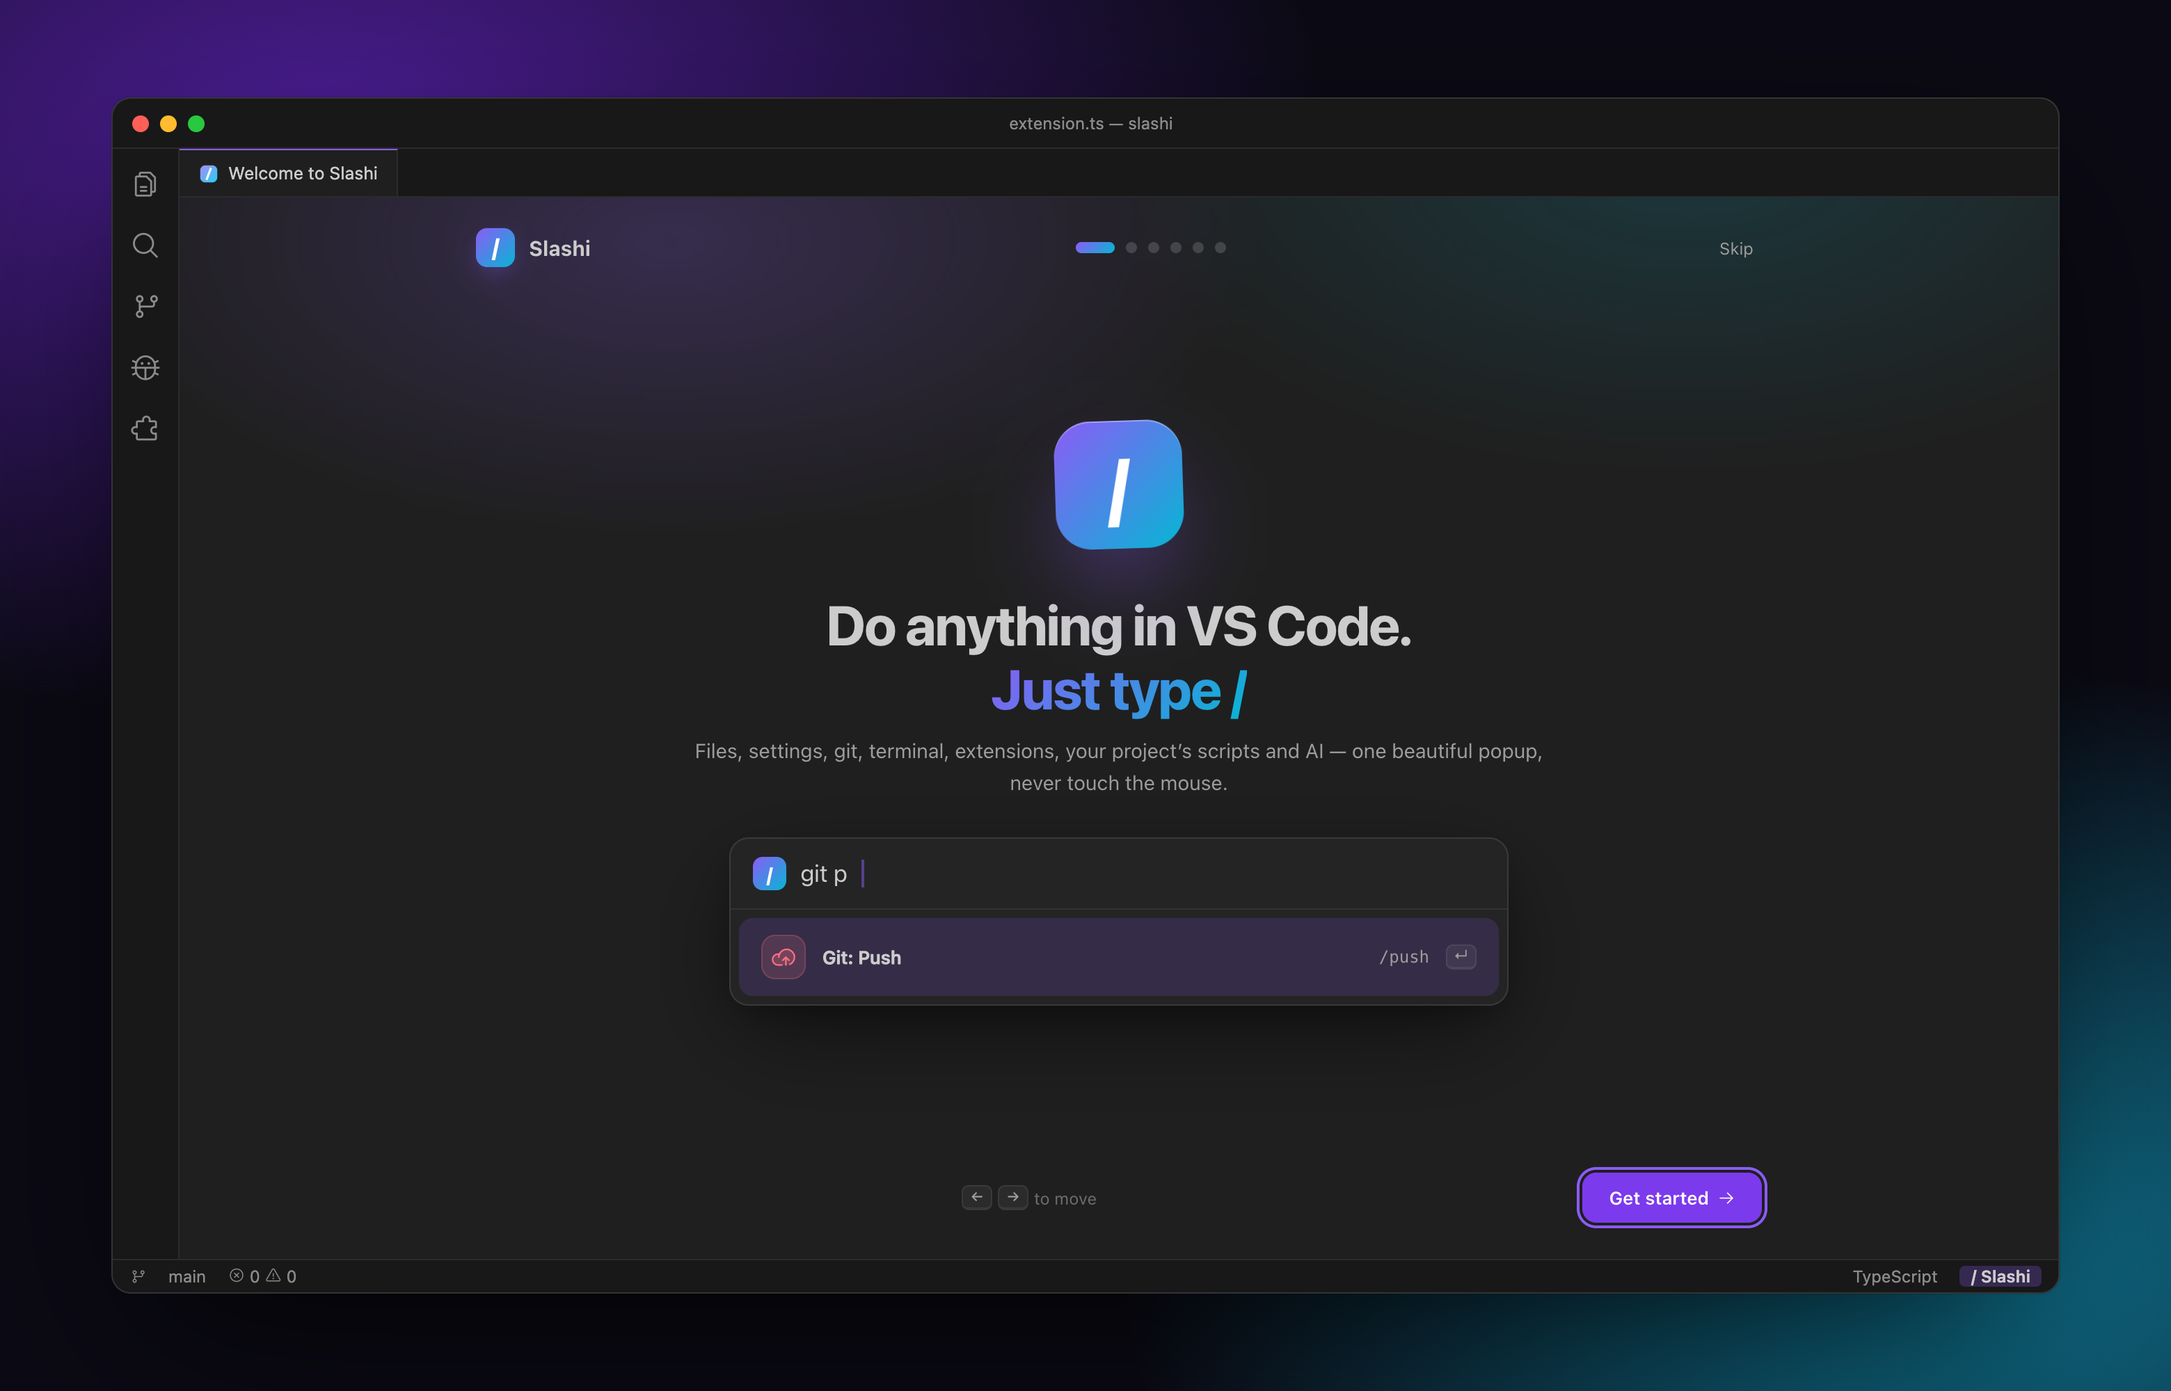
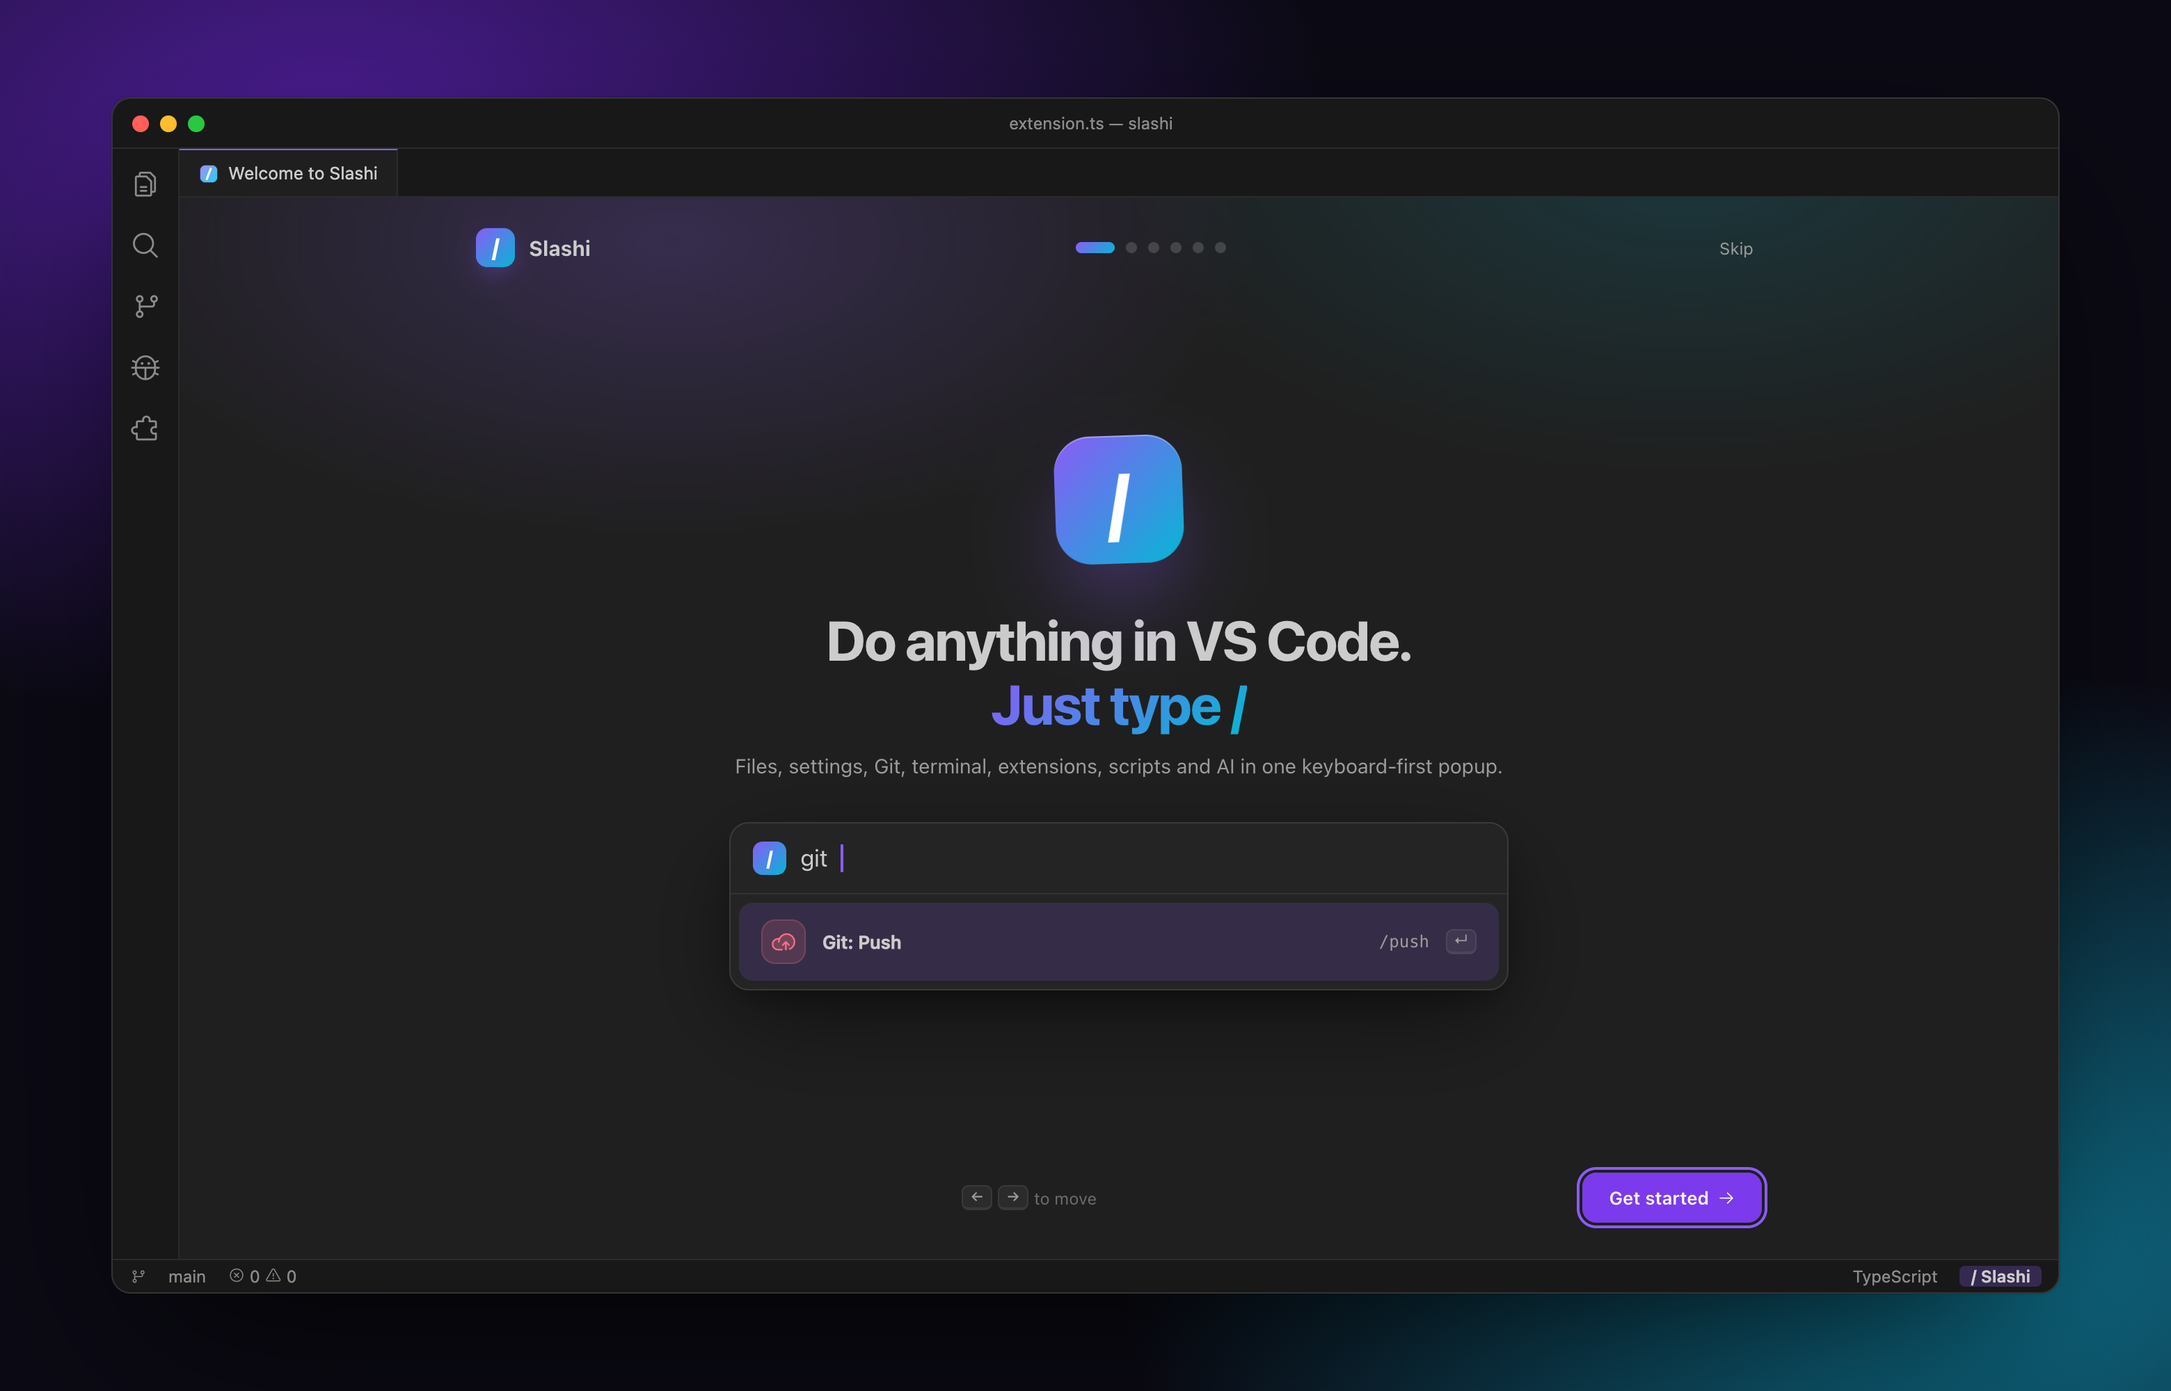
fix(ui): make user-facing copy clearer and consistent
- One API key prompt everywhere, titled with the backend's real name.
- Explain what applying a stale AI edit may overwrite, and show this
  platform's undo key.
- Plural problem counts, a working link to the pack publishing guide and
  plain undo steps for hidden results.
- "AI" instead of "LLM", "Refresh Search Results" instead of "Refresh
  Catalogues", American spelling, and plainer onboarding copy.

diff --git a/src/webview/onboarding.ts b/src/webview/onboarding.ts
@@ -67,7 +67,7 @@ function content(): string {
       return `<div class="hero">
           <div class="hero-mark" aria-hidden="true">/</div>
           <h1>Do anything in VS Code.<br><span class="grad">Just type /</span></h1>
-          <p class="lead">Files, settings, git, terminal, extensions, your project’s scripts and AI — one beautiful popup, never touch the mouse.</p>
+          <p class="lead">Files, settings, Git, terminal, extensions, scripts and AI in one keyboard-first popup.</p>
         </div>
         <div class="demo" aria-hidden="true">
           <div class="demo-input"><span class="demo-mark">/</span><span id="demo-text"></span><span class="caret"></span></div>
@@ -75,7 +75,7 @@ function content(): string {
         </div>`;
     case 'shortcut':
       return `<div class="center">
-          <h1>Your new favourite shortcut</h1>
+          <h1>Your new favorite shortcut</h1>
           <p class="lead">Press it anywhere in VS Code to open Slashi. Try it now.</p>
           <div class="keycaps${pressed ? ' pressed' : ''}">${slashKeys().map((k) => `<span class="cap">${k}</span>`).join('<span class="plus">+</span>')}</div>
           <p class="pressed-msg${pressed ? ' visible' : ''}">${icon('check-circle')} Perfect — that’s all you need to remember.</p>
@@ -87,7 +87,7 @@ function content(): string {
         </div>`;
     case 'providers':
       return `<div class="center wide">
-          <h1>Choose your superpowers</h1>
+          <h1>Choose what Slashi can do</h1>
           <p class="lead">Everything is on by default. Turn off what you don’t need — fine-tune features later in Studio.</p>
           <div class="providers">${s.providers
             .map(
@@ -115,13 +115,13 @@ function content(): string {
     case 'done':
       return `<div class="center wide">
           <h1>You’re all set ${icon('confetti')}</h1>
-          <p class="lead">A few moves that make Slashi fly:</p>
+          <p class="lead">Shortcuts worth knowing:</p>
           <div class="tips">
             ${tip(keys(...slashKeys()), 'Open Slashi from anywhere')}
             ${tip(keys('Tab'), 'Complete a command, then type its arguments')}
             ${tip(`${keys('⇧', '↵')}`, 'Actions: rename, delete, copy path, hide…')}
             ${tip(keys(mac() ? '⌘' : 'Ctrl', '↵'), 'Hand what you typed to AI')}
-            ${tip('<code>/f</code>', 'Files & folders with full CRUD')}
+            ${tip('<code>/f</code>', 'Create, rename, move and delete files')}
             ${tip('<code>/p</code>', 'Your project’s scripts & tools')}
             ${tip('<code>/do</code>', 'Describe a task in plain English')}
             ${tip('<code>/market</code>', 'Install community action packs')}

diff --git a/src/providers/custom.ts b/src/providers/custom.ts
@@ -1,5 +1,6 @@
 import * as vscode from 'vscode';
 import { get, isFeatureEnabled, updateGlobal } from '../config';
+import { HELP_LINKS } from '../data/links';
 import { NAME_PATTERN, PACK_ID_PATTERN, validateCommands, type CustomCommandDef, type PackDef, type StepDef } from '../core/commandSchema';
 import { pickIcon } from '../core/icons';
 import { parseJsonc } from '../core/text';
@@ -146,7 +147,7 @@ export class CustomProvider implements SlashProvider {
     errors.forEach((e) => this.services.log.warn(e));
     if (this.warned.has(key)) return;
     this.warned.add(key);
-    void vscode.window.showWarningMessage(`Slashi: ${errors.length} problem(s) in your custom commands. ${errors[0]}`, 'Show Log').then((c) => c && this.services.log.show());
+    void vscode.window.showWarningMessage(`Slashi: ${errors.length === 1 ? '1 problem' : `${errors.length} problems`} in your custom commands. ${errors[0]}`, 'Show Log').then((c) => c && this.services.log.show());
   }
 
   private builtins(): SlashItem[] {
@@ -340,7 +341,7 @@ export async function editTeamCommands(): Promise<void> {
 export async function exportPack(): Promise<void> {
   const { commands } = validateCommands(get('customCommands', []));
   if (!commands.length) {
-    const choice = await vscode.window.showInformationMessage('You have no custom commands yet.', 'Create One');
+    const choice = await vscode.window.showInformationMessage('No custom commands to export yet.', 'Create Command');
     if (choice) await vscode.commands.executeCommand('slashi.newCommand');
     return;
   }
@@ -363,5 +364,7 @@ export async function exportPack(): Promise<void> {
   };
   const doc = await vscode.workspace.openTextDocument({ language: 'json', content: `${JSON.stringify(pack, null, 2)}\n` });
   await vscode.window.showTextDocument(doc);
-  void vscode.window.showInformationMessage(`Save it as ${id}.slashi-pack.json. Share the file, install it with “Slashi: Install Action Pack”, or publish it to the marketplace (see docs/BUILDING_ACTIONS.md).`);
+  void vscode.window
+    .showInformationMessage(`Save this as ${id}.slashi-pack.json. Share the file, or install it with “Slashi: Install Action Pack from URL or File…”.`, 'Publishing Guide')
+    .then((choice) => choice && vscode.env.openExternal(vscode.Uri.parse(HELP_LINKS.packs)));
 }

diff --git a/src/ui/answer.ts b/src/ui/answer.ts
@@ -146,7 +146,7 @@ export class AnswerPanel implements vscode.Disposable {
     if (!this.target) return this.insertAtCursor(text);
     const doc = await vscode.workspace.openTextDocument(this.target.uri);
     if (doc.version !== this.target.version) {
-      const choice = await vscode.window.showWarningMessage('The file changed since the AI started. Apply anyway?', { modal: true }, 'Apply');
+      const choice = await vscode.window.showWarningMessage('This file changed after the AI started writing. Apply the change anyway?', { modal: true, detail: 'Edits you made since then may be overwritten.' }, 'Apply Anyway');
       if (!choice) return;
     }
     const edit = new vscode.WorkspaceEdit();
@@ -157,7 +157,7 @@ export class AnswerPanel implements vscode.Disposable {
     editor.selection = new vscode.Selection(this.target.range.start, end);
     editor.revealRange(editor.selection, vscode.TextEditorRevealType.InCenterIfOutsideViewport);
     this.target = { uri: doc.uri, range: new vscode.Range(this.target.range.start, end), version: doc.version };
-    void vscode.window.setStatusBarMessage('$(check) Applied — undo with Ctrl/Cmd+Z', 4000);
+    void vscode.window.setStatusBarMessage(`$(check) Applied. Press ${process.platform === 'darwin' ? '⌘Z' : 'Ctrl+Z'} to undo.`, 4000);
   }
 
   private async insertAtCursor(text: string): Promise<void> {

diff --git a/src/providers/naturalLanguage.ts b/src/providers/naturalLanguage.ts
@@ -19,7 +19,7 @@ const OS_NAMES: Record<string, string> = { darwin: 'macOS', win32: 'Windows', li
 export class NaturalLanguageProvider implements SlashProvider {
   readonly id = 'naturalLanguage' as const;
   readonly title = 'Natural Language';
-  readonly description = 'Describe a task in plain English; the LLM picks the right actions and asks before running them.';
+  readonly description = 'Describe a task in plain English, and AI picks the right actions and asks before running them.';
   readonly icon = 'magic-wand';
   readonly prefix = 'do';
   readonly placeholder = 'Describe what you want to do…';
@@ -104,8 +104,8 @@ export async function doWithAi(services: Services, task: string, snapshot: Edito
   const reachesShell = plan.steps.some((s) => stepReachesShell(s, (id) => byId.get(id)?.providerId));
   if (get('ai.confirmBeforeRun', true) || reachesShell) {
     const detail = plan.steps.map((s, i) => `${i + 1}. ${describe(s)}${s.why ? `  (${s.why})` : ''}`).join('\n');
-    const choice = await vscode.window.showInformationMessage(plan.reply || 'Run this plan?', { modal: true, detail }, 'Run');
-    if (choice !== 'Run') return;
+    const choice = await vscode.window.showInformationMessage(plan.reply || 'Run this plan?', { modal: true, detail }, 'Run Plan');
+    if (choice !== 'Run Plan') return;
   }
 
   for (const step of plan.steps) {

diff --git a/src/extension.ts b/src/extension.ts
@@ -140,7 +140,7 @@ export function activate(context: vscode.ExtensionContext): SlashiApi {
       { title: 'Which provider is the key for?' },
     );
     if (!backend) return;
-    const key = await vscode.window.showInputBox({ title: `${backend.label} API key`, password: true, ignoreFocusOut: true, prompt: 'Stored in VS Code Secret Storage, never in settings files.' });
+    const key = await vscode.window.showInputBox({ title: `${backend.label} API key`, password: true, ignoreFocusOut: true, prompt: 'Stored in VS Code Secret Storage, never in your settings files.' });
     if (!key) return;
     await services.ai.setKey(backend.value, key);
     if (get('ai.provider', 'auto') === 'auto' && backend.value !== 'openaiCompatible') await updateGlobal('ai.provider', backend.value);
@@ -174,7 +174,7 @@ export function activate(context: vscode.ExtensionContext): SlashiApi {
     registry.invalidate();
     await marketplace.refresh(true);
     await registry.warm();
-    void vscode.window.setStatusBarMessage('$(check) Slashi catalogues refreshed', 2500);
+    void vscode.window.setStatusBarMessage('$(check) Slashi search results refreshed', 2500);
   });
   command('slashi.inlineRun', async (id: string) => {
     const item = registry.find(id);

diff --git a/src/ui/onboarding.ts b/src/ui/onboarding.ts
@@ -1,7 +1,7 @@
 import * as vscode from 'vscode';
 import { get, isProviderEnabled, shortcutLabel, updateGlobal } from '../config';
 import type { ProviderId } from '../core/protocol';
-import type { BackendId, ModelInfo } from '../llm/types';
+import { BACKEND_LABELS, type BackendId, type ModelInfo } from '../llm/types';
 import type { Services } from '../services/services';
 import { panelIcon, webviewHtml, webviewOptions } from './html';
 
@@ -88,7 +88,7 @@ export class Onboarding implements vscode.Disposable {
         await this.pushState();
         break;
       case 'setKey': {
-        const key = await vscode.window.showInputBox({ title: `${m.backend === 'anthropic' ? 'Anthropic' : 'OpenAI'} API key`, password: true, ignoreFocusOut: true, prompt: 'Stored in VS Code Secret Storage — never in settings files.' });
+        const key = await vscode.window.showInputBox({ title: `${BACKEND_LABELS[m.backend]} API key`, password: true, ignoreFocusOut: true, prompt: 'Stored in VS Code Secret Storage, never in your settings files.' });
         if (key) {
           await services.ai.setKey(m.backend, key);
           await updateGlobal('ai.provider', m.backend);

diff --git a/src/ui/studio.ts b/src/ui/studio.ts
@@ -2,7 +2,7 @@ import * as vscode from 'vscode';
 import { get, isFeatureEnabled, isProviderEnabled, setFeatureEnabled, updateGlobal } from '../config';
 import type { ProviderId } from '../core/protocol';
 import { HELP_LINKS, type HelpLink } from '../data/links';
-import type { BackendId, ModelInfo } from '../llm/types';
+import { BACKEND_LABELS, type BackendId, type ModelInfo } from '../llm/types';
 import type { Services } from '../services/services';
 import { panelIcon, webviewHtml, webviewOptions } from './html';
 
@@ -83,7 +83,7 @@ export class Studio implements vscode.Disposable {
         }
         break;
       case 'setKey': {
-        const key = await vscode.window.showInputBox({ title: `API key for ${m.backend}`, password: true, ignoreFocusOut: true, prompt: 'Stored securely in VS Code Secret Storage — never in settings.' });
+        const key = await vscode.window.showInputBox({ title: `${BACKEND_LABELS[m.backend]} API key`, password: true, ignoreFocusOut: true, prompt: 'Stored in VS Code Secret Storage, never in your settings files.' });
         if (key) {
           await ai.setKey(m.backend, key);
           void this.loadModels();

diff --git a/src/providers/system.ts b/src/providers/system.ts
@@ -34,7 +34,7 @@ export class SystemProvider implements SlashProvider {
       cmd('studio', 'Slashi: Open Studio', 'sliders-horizontal', 'slashi.studio', 'Providers, AI models and custom commands in one place'),
       cmd('shortcuts', 'Slashi: Customize Keyboard Shortcuts', 'keyboard', 'slashi.customizeShortcuts', 'Rebind Slashi or bind any slash command to a key'),
       cmd('native', 'Slashi: Open in Native Quick Pick', 'list-magnifying-glass', 'slashi.openNative'),
-      cmd('refresh', 'Slashi: Refresh Catalogues', 'arrows-clockwise', 'slashi.refresh', 'Re-scan files, project, extensions and settings'),
+      cmd('refresh', 'Slashi: Refresh Search Results', 'arrows-clockwise', 'slashi.refresh', 'Re-scan files, project, extensions and settings'),
       cmd('clear-history', 'Slashi: Clear Recent History', 'clock-counter-clockwise', 'slashi.clearHistory'),
       cmd('slashi-settings', 'Slashi: All Settings', 'gear-six', 'workbench.action.openSettings', undefined, '@ext:meness.slashi'),
       cmd('diagnostics', 'Slashi: Copy Diagnostics', 'clipboard-text', 'slashi.copyDiagnostics', 'Versions and setup for a bug report (no keys, files or code)'),

diff --git a/src/providers/ai.ts b/src/providers/ai.ts
@@ -39,7 +39,7 @@ interface CodeContext {
 async function codeContext(ctx: RunContext, requireCode: boolean): Promise<CodeContext | undefined> {
   const editor = await ctx.editor();
   if (!editor) {
-    if (requireCode) void vscode.window.showWarningMessage('Open a file (and optionally select code) first.');
+    if (requireCode) void vscode.window.showWarningMessage('Open a file first. Select code to work on just that part.');
     return requireCode ? undefined : { language: '', file: '', code: '', hasSelection: false, truncated: false, diagnostics: '' };
   }
   const doc = editor.document;
@@ -68,7 +68,7 @@ function codeBlock(c: CodeContext): string {
 export class AiProvider implements SlashProvider {
   readonly id = 'ai' as const;
   readonly title = 'AI';
-  readonly description = 'Ask, explain, fix, document, test, review and edit code with your installed or configured LLM.';
+  readonly description = 'Ask, explain, fix, document, test, review and edit code with your AI model.';
   readonly icon = 'sparkle';
   readonly prefix = 'ai';
   readonly placeholder = 'Ask AI or pick an AI command…';

diff --git a/src/executor.ts b/src/executor.ts
@@ -45,7 +45,7 @@ async function runCommonAction(item: SlashItem, action: string): Promise<boolean
       return true;
     case 'slashi.hide':
       await hideItem(item.id);
-      void vscode.window.showInformationMessage(`“${item.title}” is hidden. Undo by editing “slashi.hiddenCommands”.`, 'Open Setting').then((choice) => {
+      void vscode.window.showInformationMessage(`Hid “${item.title}” from Slashi. To show it again, remove it from the Hidden Commands setting.`, 'Open Setting').then((choice) => {
         if (choice) void vscode.commands.executeCommand('workbench.action.openSettings', 'slashi.hiddenCommands');
       });
       return true;

diff --git a/src/webview/studio.ts b/src/webview/studio.ts
@@ -278,7 +278,7 @@ function helpPage(): string {
       <div class="row-actions">
         <button class="btn" data-run="slashi.copyDiagnostics">${icon('clipboard-text')} Copy diagnostics</button>
         ${run('slashi.run', 'Show log', 'scroll', '/slashi-log')}
-        ${run('slashi.refresh', 'Refresh catalogues', 'arrows-clockwise')}
+        ${run('slashi.refresh', 'Refresh search results', 'arrows-clockwise')}
         <button class="btn ghost" data-tab="ai" data-cmd="test">${icon('plugs-connected')} Test AI connection</button>
       </div>
     </div>
